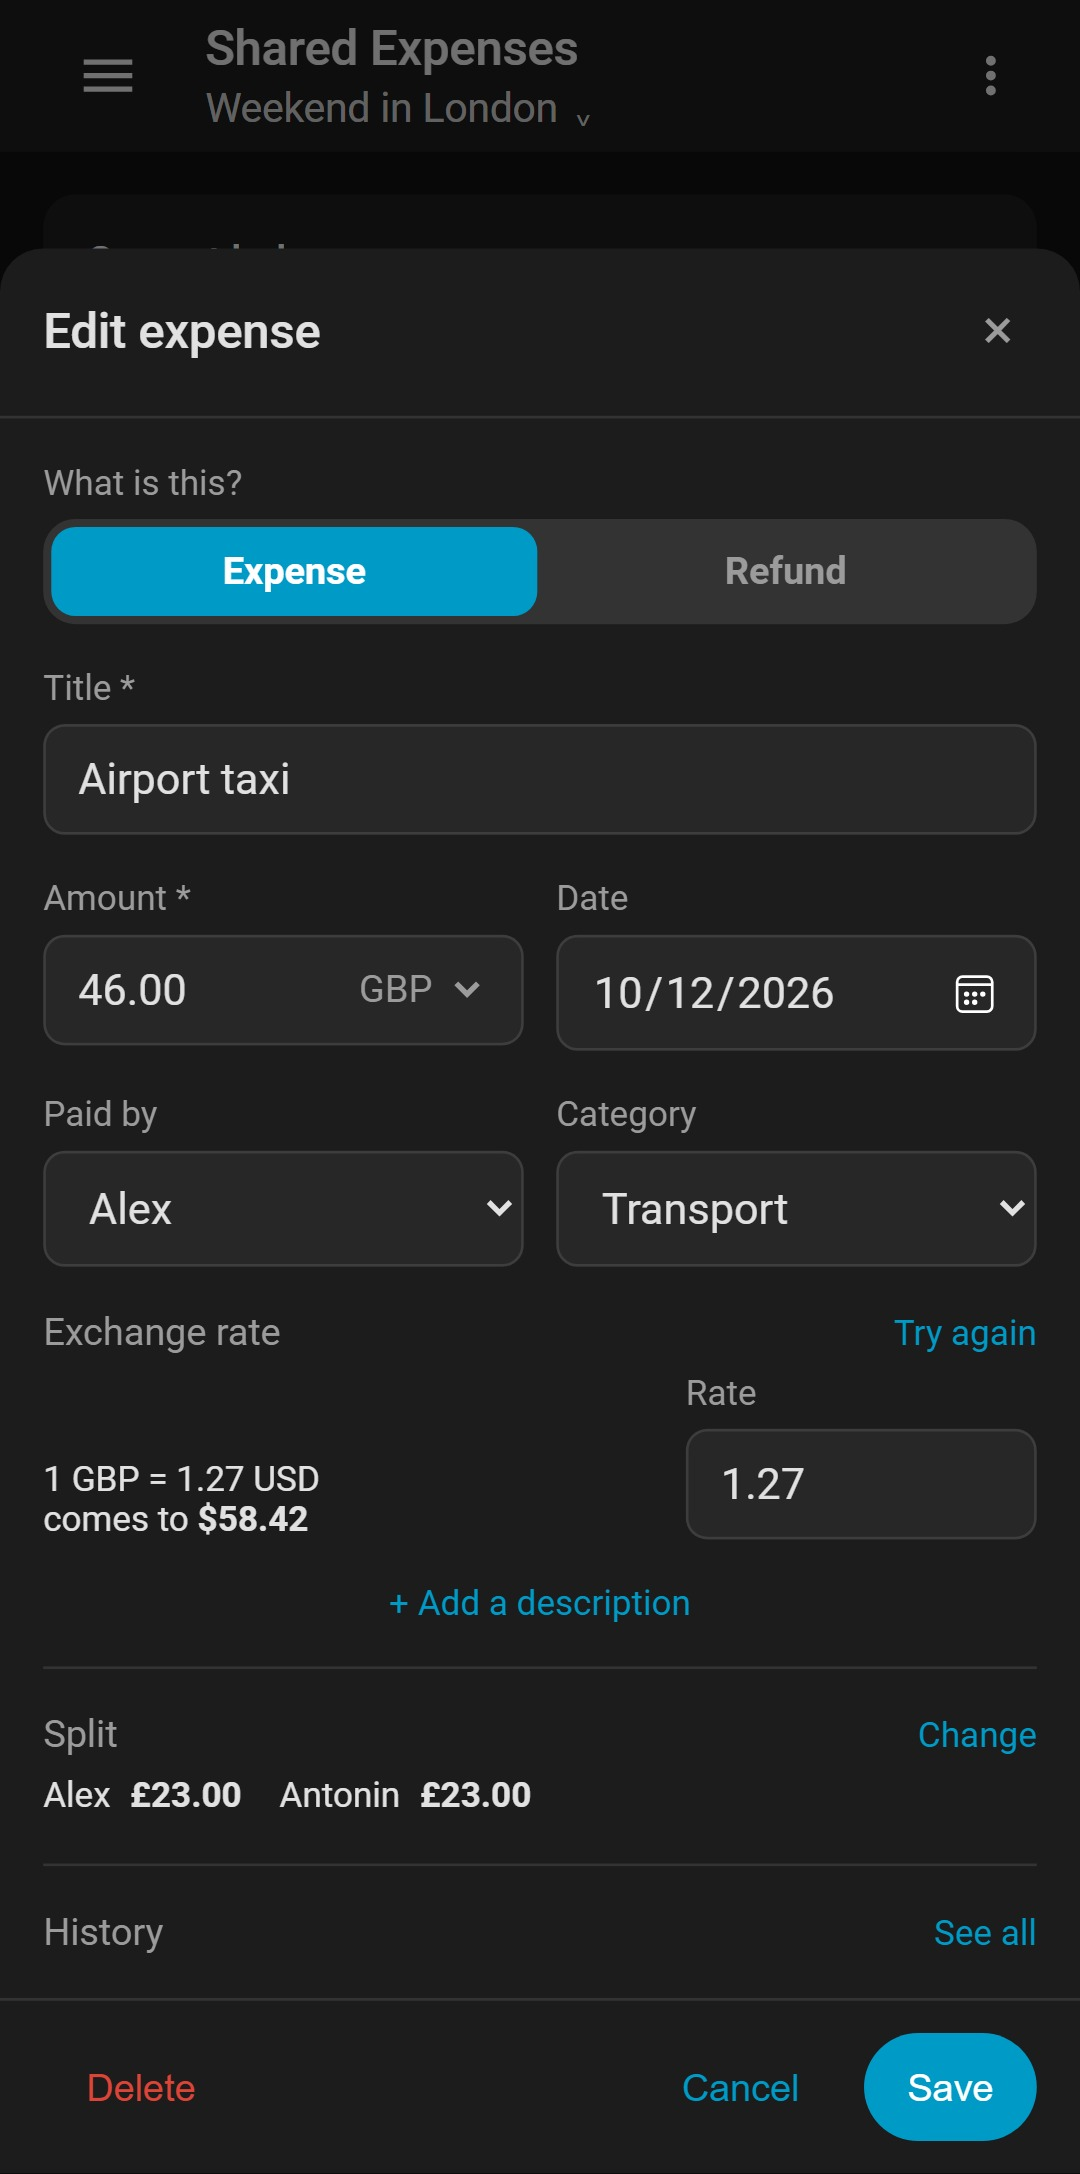
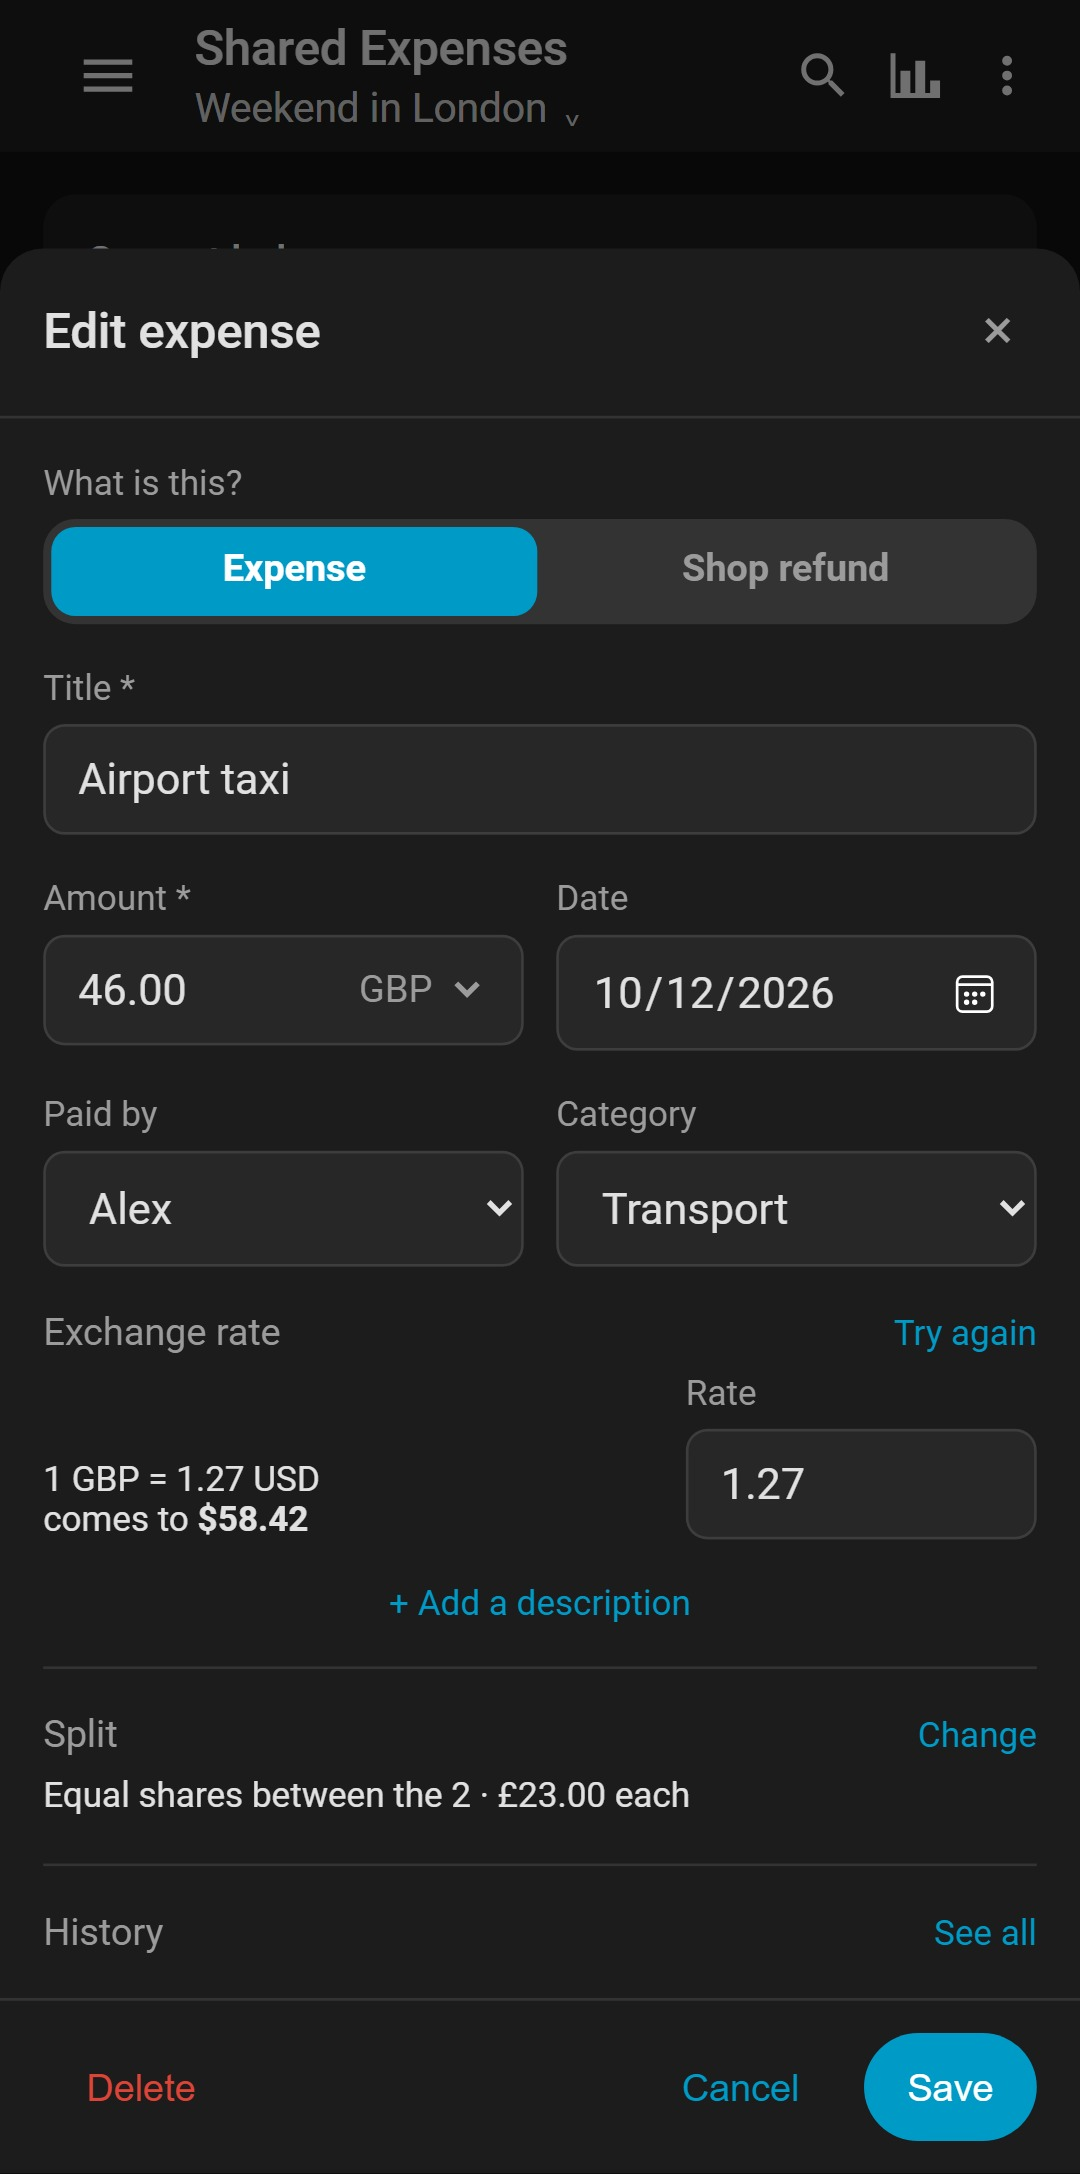
docs: the README shows the new bar, the months and the plus
Every picture with a group behind it showed the bar as it was: no
magnifier, no statistics, the search box above the list, a plus with
nothing to choose. 02 to 07 are retaken on a re-seeded Home Assistant,
the three phones at the top rebuilt from them, and the tour recorded
again: it now stops for a moment on the plus's four choices before
picking the expense where the plus was, and opens the statistics from
the bar, since they left the menu. Its cuts were redone for the new
timings and checked frame against frame. Only the list of groups did not
change.

diff --git a/docs/roadmap.md b/docs/roadmap.md
@@ -872,6 +872,8 @@ something false about people.
       presses where the thumb already is add one — the user's idea, better
       than the close button it replaced. Back and the dim around them close.
       The drag to reimburse stays for whoever learnt it.
+- [x] The README's pictures and tour retaken on the new bar, list and plus;
+      the tour now stops on the plus's four choices for a moment.
 
 ## Later
 
